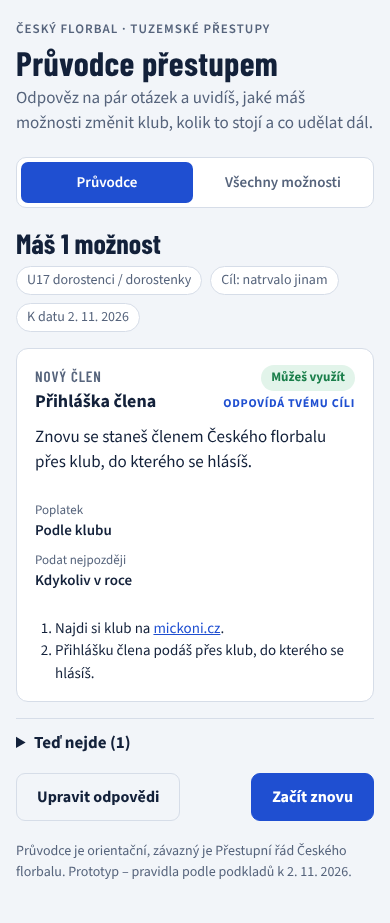
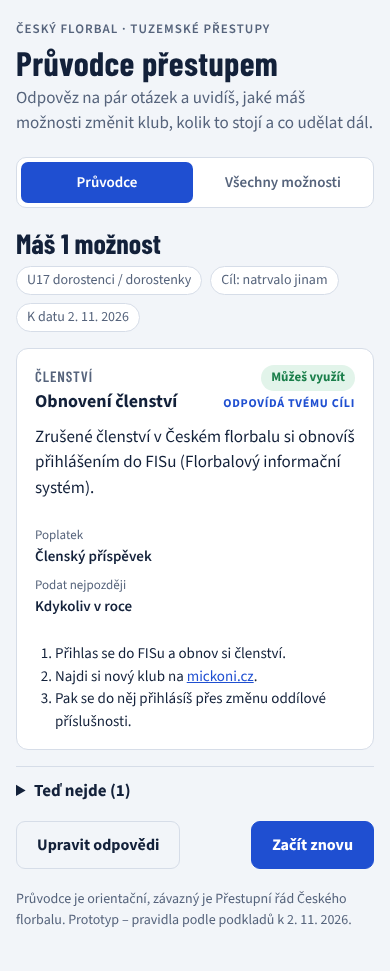
Obnovení členství přes FIS místo přihlášky člena
Hráč se zrušeným členstvím si ho obnoví přihlášením do FISu. Obnovení
je zdarma, pak se platí členský příspěvek 200 Kč na sezónu (v CONFIG).

Claude-Session: https://claude.ai/code/session_01MkvpftWQefkJWtxSvvUdfU

diff --git a/index.html b/index.html
@@ -142,11 +142,12 @@ const CONFIG = {
   },
   topLeagues: ["Superliga","1. liga mužů","Národní liga","Extraliga žen","1. liga žen"],
   disputeUrl: "https://www.ceskyflorbal.cz/neshoda-u-zadosti-o-prestup",
-  findClubUrl: "https://mickoni.cz/"
+  findClubUrl: "https://mickoni.cz/",
+  membershipFee: 200 // členský příspěvek ČF za sezónu (Kč)
 };
 
 const OPTIONS = [
-  {id:"prihlaska", code:"Nový člen", name:"Přihláška člena", what:"Znovu se staneš členem Českého florbalu přes klub, do kterého se hlásíš.", goal:["trvale"]},
+  {id:"prihlaska", code:"Členství", name:"Obnovení členství", what:"Zrušené členství v Českém florbalu si obnovíš přihlášením do FISu (Florbalový informační systém).", goal:["trvale"]},
   {id:"zop", code:"Bez přestupu", name:"Změna oddílové příslušnosti", what:"Přihlásíš se do nového klubu bez přestupu a zdarma. Jde to, když nemáš žádný klub, nebo když jsi rok nehrál(a).", goal:["trvale"]},
   {id:"prestup", code:"Natrvalo", name:"Přestup", what:"Přejdeš do nového klubu natrvalo. Z mateřského oddílu tě vyřadí k datu přestupu.", goal:["trvale"]},
   {id:"host", code:"Dočasně", name:"Hostování", what:"Dočasně budeš hrát za jiný klub, nejdéle do konce sezóny 30. 6. Pak se vracíš.", goal:["docasne"]},
@@ -169,6 +170,7 @@ const yearsFor = (minAge, maxAge) => { const y = seasonStartYear();
   return maxAge === undefined ? `ročník ${y-minAge} a starší` : `ročníky ${y-maxAge}–${y-minAge}`; };
 const catById = id => CONFIG.categories.find(c => c.id === id);
 const yearsOf = id => { const c = catById(id); return yearsFor(c.minAge, c.maxAge); };
+const memberFeeText = () => `Zdarma, pak členský příspěvek ${CONFIG.membershipFee} Kč na sezónu`;
 const todayIso = () => { const n = new Date(); return iso(D(n.getFullYear(), n.getMonth()+1, n.getDate())); };
 
 function season(dateIso, group){
@@ -210,7 +212,7 @@ const STEPS = [
     }},
   {id:"date", title:"Ke kterému dni to chceš řešit?", hint:"Předvyplnili jsme dnešek. Můžeš zadat i budoucí datum a naplánovat si to.", type:"date", def:todayIso},
   {id:"zopQ", show:() => A.state==="bez" || ["trvale","vse"].includes(A.goal), title:"Pár otázek ke změně oddílové příslušnosti", hint:"Podle nich zjistíme, jestli můžeš změnit klub zdarma a kdykoliv v roce.", type:"multi",
-    items:() => A.state==="bez" ? [["memberNow","Jsi pořád členem Českého florbalu?"],["zop3m","Měl(a) jsi za poslední 3 měsíce změnu oddílové příslušnosti?"]] :
+    items:() => A.state==="bez" ? [["memberNow","Máš pořád aktivní členství v Českém florbalu? (Nezrušil(a) jsi ho?)"],["zop3m","Měl(a) jsi za poslední 3 měsíce změnu oddílové příslušnosti?"]] :
       [["member1y","Jsi členem Českého florbalu déle než 1 rok?"],["match1y","Uběhl od tvého posledního utkání v soutěžích ČF víc než 1 rok?"],["dodatek","Máš podepsaný evidenční dodatek?"],["zop3m","Měl(a) jsi za poslední 3 měsíce změnu oddílové příslušnosti?"]]},
   {id:"recent", show:() => A.state!=="bez" && A.goal!=="ukoncit", title:"Měl(a) jsi za poslední 3 měsíce přestup?", hint:"Po přestupu nelze 3 měsíce podat další žádost o přestup ani hostování.", type:"choice",
     options:() => YN.map(([v,l]) => [v,l])},
@@ -228,19 +230,19 @@ function evaluate(){
   const c = cat(), s = season(A.date, c.group), tier = c.high ? "hi" : "lo";
   const inPeriod = s.d >= s.start && s.d <= s.end;
   const R = {};
-  const fee = id => !CONFIG.fees[id] ? "Podle klubu" : CONFIG.fees[id][tier] === 0 ? "Zdarma" : CONFIG.fees[id][tier] + " Kč";
+  const fee = id => !CONFIG.fees[id] ? memberFeeText() : CONFIG.fees[id][tier] === 0 ? "Zdarma" : CONFIG.fees[id][tier] + " Kč";
   const nextNote = `Nejbližší možnost od ${fmt(s.d > s.end ? s.next : s.start)}.`;
   const set = (id, status, deadline, reason, steps) => R[id] = {status, deadline, reason, steps, fee:fee(id)};
 
   // Změna oddílové příslušnosti
   const clubLink = `<a href="${CONFIG.findClubUrl}" target="_blank" rel="noopener">mickoni.cz</a>`;
   if (A.state!=="bez") set("prihlaska","no","Kdykoliv v roce","Týká se jen hráčů bez klubu, kteří už nejsou členy ČF.");
-  else if (A.memberNow==="ne") set("prihlaska","yes","Kdykoliv v roce","",[`Najdi si klub na ${clubLink}.`,"Přihlášku člena podáš přes klub, do kterého se hlásíš."]);
-  else if (A.memberNow==="nevim") set("prihlaska","maybe","Kdykoliv v roce","Pokud už nejsi členem ČF, potřebuješ místo změny oddílové příslušnosti novou přihlášku člena. Ověř to u klubu.",[`Najdi si klub na ${clubLink}.`]);
+  else if (A.memberNow==="ne") set("prihlaska","yes","Kdykoliv v roce","",["Přihlas se do FISu a obnov si členství.",`Zaplať členský příspěvek ${CONFIG.membershipFee} Kč na sezónu.`,`Najdi si nový klub na ${clubLink}.`,"Pak se do něj přihlásíš přes změnu oddílové příslušnosti."]);
+  else if (A.memberNow==="nevim") set("prihlaska","maybe","Kdykoliv v roce","Pokud jsi členství zrušil(a), nejdřív si ho obnov přihlášením do FISu.",["Přihlas se do FISu a zkontroluj, jestli máš aktivní členství."]);
   else set("prihlaska","no","Kdykoliv v roce","Jsi pořád členem ČF, stačí ti změna oddílové příslušnosti.");
 
   if (A.state==="bez") {
-    if (A.memberNow==="ne") set("zop","no","Kdykoliv v roce","Nejsi členem ČF. Nejdřív musíš podat přihlášku člena.");
+    if (A.memberNow==="ne") set("zop","no","Kdykoliv v roce","Nejdřív si obnov členství přihlášením do FISu. Pak můžeš změnit oddílovou příslušnost.");
     else if (A.zop3m==="ano") set("zop","no","Kdykoliv v roce","Od poslední změny oddílové příslušnosti musí uběhnout alespoň 3 měsíce.");
     else if (A.zop3m==="nevim" || A.memberNow==="nevim") set("zop","maybe","Kdykoliv v roce", A.memberNow==="nevim" ? "Ověř, jestli jsi pořád členem ČF." : "Ověř, jestli jsi v posledních 3 měsících neměl(a) změnu oddílové příslušnosti.");
     else set("zop","yes","Kdykoliv v roce","",["Vyber si nový klub a domluv se s ním.","Žádost se podává v informačním systému ČF."]);
@@ -434,7 +436,7 @@ function renderResult(){
 
 /* ===== Přehled všech možností ===== */
 function renderAll(){
-  const f = (id) => { const x = CONFIG.fees[id]; if (!x) return "Podle klubu"; return x.hi===x.lo ? (x.hi? x.hi+" Kč":"Zdarma") : `${x.hi} / ${x.lo} Kč`; };
+  const f = (id) => { const x = CONFIG.fees[id]; if (!x) return memberFeeText(); return x.hi===x.lo ? (x.hi? x.hi+" Kč":"Zdarma") : `${x.hi} / ${x.lo} Kč`; };
   const rows = [
     ["zop","Kdykoliv, nejdříve 3 měsíce od předchozí změny oddílové příslušnosti","Bez klubu, nebo členem ČF déle než 1 rok, 1 rok bez utkání a bez evidenčního dodatku"],
     ["prestup","V přestupním období","Po přestupu 3 měsíce nelze podat další přestup ani hostování"],
@@ -443,7 +445,7 @@ function renderAll(){
     ["sth","Začátek 1. 7. až konec přestupního období, nejvýše 105 dní",`Od starších žáků po první tři sezóny v dospělých (${yearsFor(catById("starsi").minAge, catById("dospeli21").maxAge)}); jen do vyšší celostátní soutěže, kterou klub nemá`],
     ["endHost","Nejpozději konec přestupního období","Hostování trvá alespoň 30 dnů"],
     ["endStst","Nejpozději 31. 1.","—"],
-    ["prihlaska","Kdykoliv","Bez klubu a už nejsi členem ČF"]
+    ["prihlaska","Kdykoliv, přihlášením do FISu","Zrušené členství v ČF"]
   ];
   document.getElementById("all").innerHTML = `<div class="panel">
     <div style="display:flex;flex-direction:column;gap:6px"><h2>Všechny možnosti</h2>
